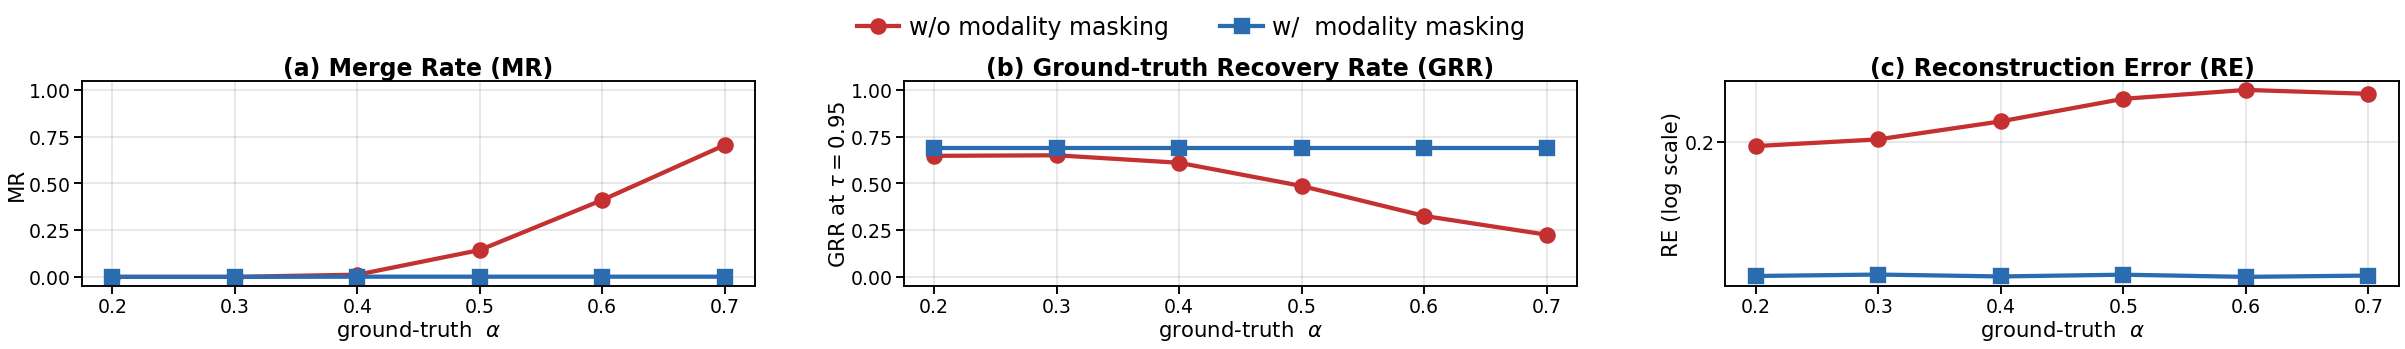
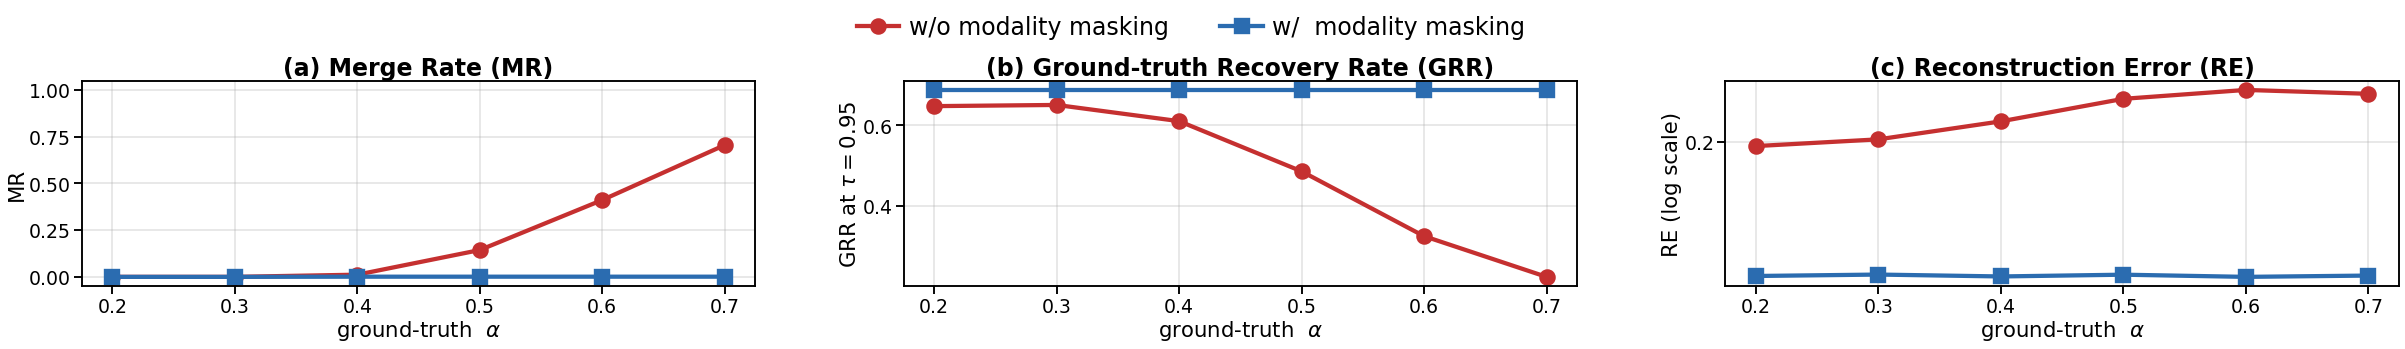
fig1/fig2: GRR panel auto-scale

diff --git a/scripts/plot_fig2_lambda_sweep.py b/scripts/plot_fig2_lambda_sweep.py
@@ -36,7 +36,7 @@ DEFAULTS = {"IA": 0.03, "GS": 0.05, "ours": 2.0}
 PANELS = [
     # (metric_key,              ylabel,                title,                                     ylim,          yticks_step, ylog)
     ("MR_geom",                 "MR",                   "(a) Merge Rate (MR)",                    None,          None,        False),
-    ("img_mgt_shared_tau0.95",  r"GRR at $\tau=0.95$",  "(b) Ground-truth Recovery Rate (GRR)",   (-0.05, 1.05), None,        False),
+    ("img_mgt_shared_tau0.95",  r"GRR at $\tau=0.95$",  "(b) Ground-truth Recovery Rate (GRR)",   None,          None,        False),
     ("avg_eval_loss",           "RE (log scale)",       "(c) Reconstruction Error (RE)",          None,          None,        True),
 ]
 

diff --git a/scripts/plot_fig1_three_panels.py b/scripts/plot_fig1_three_panels.py
@@ -29,7 +29,7 @@ LBL_YES = "w/  modality masking"
 PANELS = [
     # (metric_key,                 ylabel,               title,                                    ylim,     yticks_step)
     ("merged_fraction",            "MR",                  "(a) Merge Rate (MR)",                    (-0.05, 1.05), None),
-    ("img_mgt_shared_tau0.95",     r"GRR at $\tau=0.95$", "(b) Ground-truth Recovery Rate (GRR)",   (-0.05, 1.05), None),
+    ("img_mgt_shared_tau0.95",     r"GRR at $\tau=0.95$", "(b) Ground-truth Recovery Rate (GRR)",   None,          None),
     ("avg_eval_loss",              "RE (log scale)",       "(c) Reconstruction Error (RE)",          None,          None),
 ]
 
